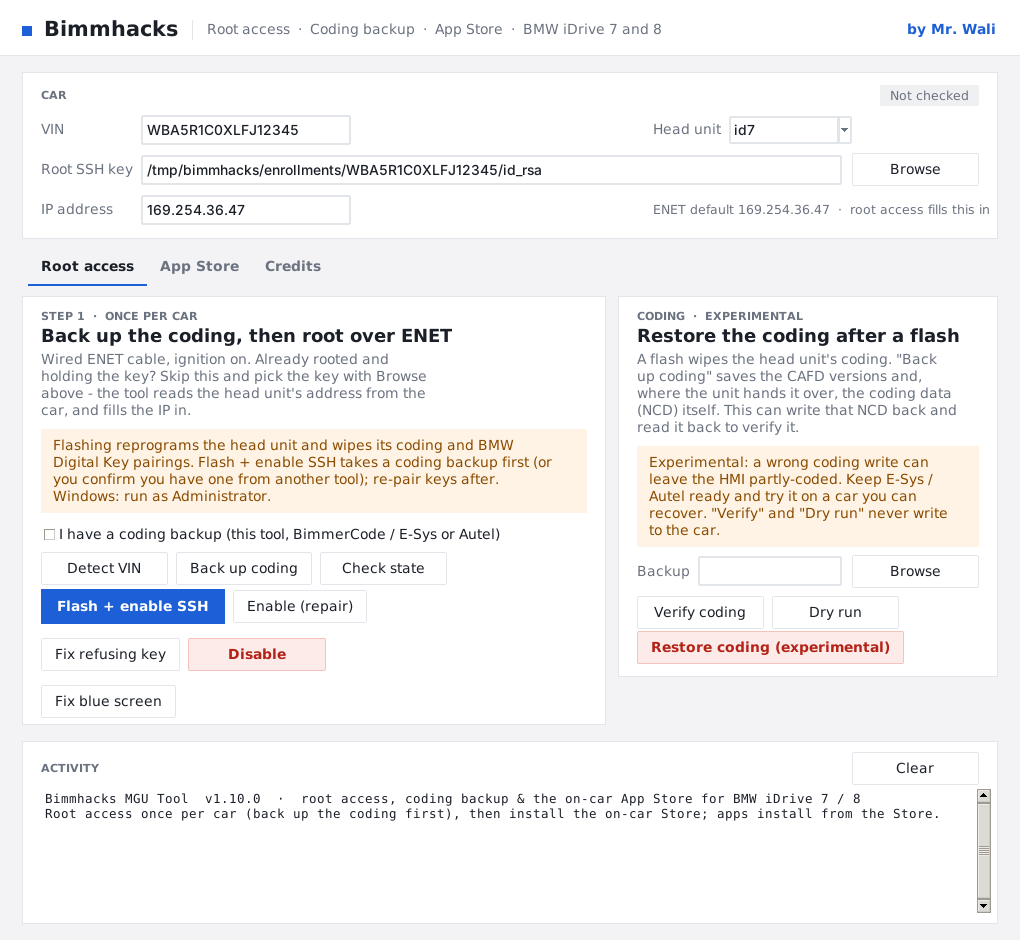
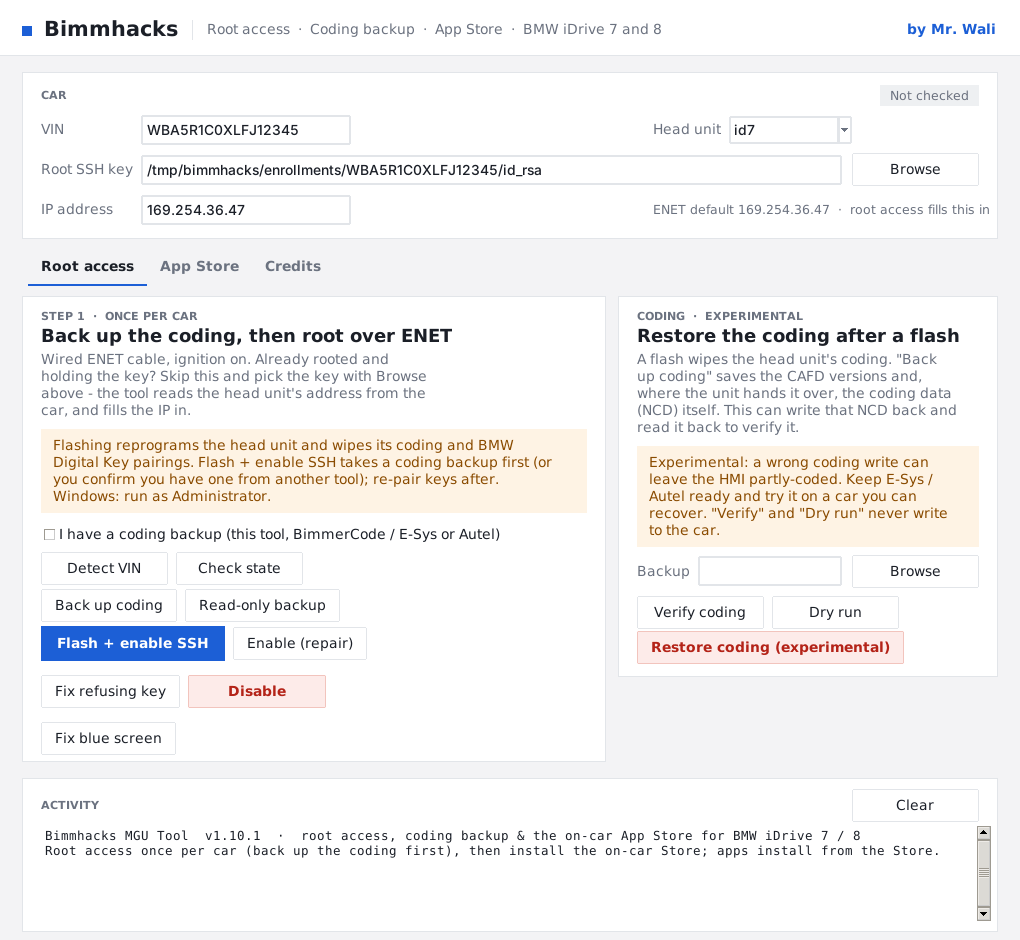
Make the two coding backups independent (v1.10.1)
Per request: keep both backups, but fully separate - and keep our NCD backup /
restore exactly as it was in the program.

- Our NCD backup is standalone again: "Back up coding" writes only the NCD backup
  (coding_backup.collect/write unchanged from before the re-sync), and the
  experimental restore card is untouched.
- The root tool's read-only preflight backup is now its own independent operation:
  a new "Read-only backup" button and a `preflight-coding` CLI action, backed by a
  separate `coding_backup.py preflight` command (`preflight_backup()`). It writes
  only the read-only coding record (coding_MGU.txt + RESTORE.txt); it never writes
  to the car. The two no longer run together.

Tests cover each path independently; all installer suites + the vendored
test_preflight pass. README / CLIENT-GUIDE / UPSTREAM and the screenshot updated.

Claude-Session: https://claude.ai/code/session_016L48f87dYbWshY4bmcePZY

Changed region(s): [[0.0304, 0.5862, 0.9118, 0.9255], [0.9422, 0.833, 0.9725, 0.8947], [0.9422, 0.9564, 0.9725, 0.9872]]

diff --git a/installer/coding_backup.py b/installer/coding_backup.py
@@ -155,11 +155,9 @@ def _open_client(gateway, mgu_ip, vin, log):
     return client, gw, found_vin
 
 
-def collect(gateway='auto', mgu_ip=None, arch='id7', vin=None, log=print, read_ncd=True, preflight_out=None):
+def collect(gateway='auto', mgu_ip=None, arch='id7', vin=None, log=print, read_ncd=True):
     """Read the backup from the car. -> dict. Raises on a link that cannot be reached. The NCD read is
-    best-effort: if the unit does not hand it over, the snapshot is still complete. When preflight_out is
-    set, also take the root tool's read-only coding-store backup (0x3000-0x3FFF + identification, with its
-    RESTORE.txt) into that folder over the same connection."""
+    best-effort: if the unit does not hand it over, the snapshot is still complete."""
     from mgu7 import diag, hsfz
     client, gw, found_vin = _open_client(gateway, mgu_ip, vin, log)
     snap = {'tool': 'bimmhacks coding backup', 'schema': SCHEMA, 'taken': _now(),
@@ -210,24 +208,6 @@ def collect(gateway='auto', mgu_ip=None, arch='id7', vin=None, log=print, read_n
                 log('  This unit did not hand coding data over the default way - the snapshot is complete,')
                 log('  but there is no restorable NCD. Keep using E-Sys / Autel for the restore, or capture')
                 log('  your tool\'s coding session with pid_capture.py so we can set the protocol.')
-
-        if preflight_out:
-            # the root tool's own read-only coding backup (cauliflowermossgrape/idrive7-8-ssh-root,
-            # mgu7/preflight.py): the coding store 0x3000-0x3FFF + identification, read twice and
-            # compared, with a RESTORE.txt that points to VO / code-by-FA re-coding (issue #10).
-            try:
-                from mgu7 import preflight as _pf
-                log('Taking the read-only coding backup (coding store 0x3000-0x3FFF + identification) ...')
-                pf = _pf.backup(client, svk, preflight_out, vin=found_vin, log=log)
-                snap['preflight'] = {'folder': os.path.basename(pf.get('folder', '')),
-                                     'verified': bool(pf.get('verified')),
-                                     'coding_blocks': len(pf.get('coding') or {})}
-                log('  read-only coding backup: %s (%d coding block(s), %s)' % (
-                    snap['preflight']['folder'], snap['preflight']['coding_blocks'],
-                    'read twice and verified' if snap['preflight']['verified'] else 'NOT verified - do not rely on it alone'))
-            except Exception as e:
-                log('  (read-only coding backup skipped: %s)' % e)
-                snap['preflight'] = {'error': str(e)}
     finally:
         try:
             client.close()
@@ -296,6 +276,35 @@ def write(snap, out_dir, log=print):
 
 
 # ============================================================ verify + restore (experimental)
+def preflight_backup(gateway='auto', mgu_ip=None, vin=None, out=None, log=print):
+    """The root tool's READ-ONLY coding backup, standalone and independent of the NCD backup above.
+
+    Reuses cauliflowermossgrape/idrive7-8-ssh-root's mgu7/preflight.py over our own ENET connection:
+    it scans the coding store (DID 0x3000-0x3FFF) and identification, reads them twice and verifies,
+    and writes coding_MGU.txt + a RESTORE.txt (VO / code-by-FA re-coding). It never writes to the car.
+    -> the preflight result dict (its 'folder' and 'verified')."""
+    from mgu7 import diag, preflight
+    out = out or '.'
+    os.makedirs(out, exist_ok=True)
+    client, gw, found_vin = _open_client(gateway, mgu_ip, vin, log)
+    try:
+        log('Reading software versions (SVK) ...')
+        svk = diag.read_svk(client)
+        log('Taking the read-only coding backup (coding store 0x3000-0x3FFF + identification) ...')
+        result = preflight.backup(client, svk, out, vin=found_vin, log=log)
+        log('Read-only coding backup written to: ' + result.get('folder', out))
+        if not result.get('verified'):
+            log('WARNING: the coding read is incomplete or did not verify - do not rely on it as your only backup.')
+        else:
+            log('After a flash, re-code HU_MGU by vehicle order (E-Sys / BimmerCode); see RESTORE.txt in the folder.')
+        return result
+    finally:
+        try:
+            client.close()
+        except OSError:
+            pass
+
+
 def load_backup(path):
     with open(path, encoding='utf-8') as f:
         snap = json.load(f)
@@ -420,7 +429,7 @@ def verify(backup, gateway='auto', mgu_ip=None, log=print):
 # ============================================================ CLI
 def main(argv=None):
     ap = argparse.ArgumentParser(description='Bimmhacks MGU coding backup / restore (experimental).')
-    ap.add_argument('action', nargs='?', default='backup', choices=['backup', 'restore', 'verify'])
+    ap.add_argument('action', nargs='?', default='backup', choices=['backup', 'restore', 'verify', 'preflight'])
     ap.add_argument('--out', help='backup: folder to write the backup into')
     ap.add_argument('--backup', help='restore / verify: the backup .json to use')
     ap.add_argument('--gateway', default='auto')
@@ -428,8 +437,6 @@ def main(argv=None):
     ap.add_argument('--arch', default='id7')
     ap.add_argument('--vin', default=None)
     ap.add_argument('--no-ncd', action='store_true', help='backup: snapshot only, do not read the coding data')
-    ap.add_argument('--no-preflight', action='store_true',
-                    help='backup: skip the root tool\'s read-only coding-store backup (0x3000-0x3FFF + RESTORE.txt)')
     ap.add_argument('--dry-run', action='store_true', help='restore: show what would be written, write nothing')
     ap.add_argument('--confirm-restore', action='store_true',
                     help='restore: I accept this is experimental and can leave the HMI partly-coded, and I have '
@@ -442,10 +449,14 @@ def main(argv=None):
         if a.action == 'backup':
             if not a.out:
                 ap.error('--out is needed for a backup')
-            snap = collect(gateway=a.gateway, mgu_ip=a.mgu_ip, arch=a.arch, vin=a.vin, log=log,
-                           read_ncd=not a.no_ncd, preflight_out=None if a.no_preflight else a.out)
+            snap = collect(gateway=a.gateway, mgu_ip=a.mgu_ip, arch=a.arch, vin=a.vin, log=log, read_ncd=not a.no_ncd)
             write(snap, a.out, log=log)
             return 0
+        if a.action == 'preflight':
+            if not a.out:
+                ap.error('--out is needed for the read-only preflight backup')
+            r = preflight_backup(gateway=a.gateway, mgu_ip=a.mgu_ip, vin=a.vin, out=a.out, log=log)
+            return 0 if r.get('verified') else 1
         if not a.backup:
             ap.error('--backup <file.json> is needed')
         bk = load_backup(a.backup)

diff --git a/installer/bimmhacks_installer.py b/installer/bimmhacks_installer.py
@@ -31,7 +31,7 @@ it. Stage C (App Store) needs internet at the car (or a prepared USB stick).
 """
 import argparse, json, os, queue, re, shutil, stat, subprocess, sys, tempfile, threading, time
 
-VERSION = '1.10.0'
+VERSION = '1.10.1'
 HERE = os.path.dirname(os.path.abspath(__file__))
 REPO = os.path.dirname(HERE)
 DEFAULT_IP = '169.254.36.47'                # the unit's address with the idrive7-8-ssh-root tool
@@ -442,6 +442,23 @@ def do_backup_coding(log, vin=None, ip=None, gateway='auto', arch='id7', out_dir
     saved = next((l.strip() for l in lines if l.strip().endswith('.txt')), None)
     log('Coding backup saved in: ' + out_dir)
     return saved or out_dir
+
+
+def do_preflight_backup(log, vin=None, ip=None, gateway='auto', arch='id7', out_dir=None):
+    """The root tool's READ-ONLY coding backup - a separate, independent option from "Back up coding".
+    Scans the coding store over ENET, reads it twice and verifies, and writes coding_MGU.txt + RESTORE.txt
+    (VO / code-by-FA re-coding). It never writes to the car. -> the folder it wrote into."""
+    out_dir = out_dir or CODING_BACKUP_DIR
+    log('Reading the head unit over ENET for the read-only coding backup ...')
+    args = ['preflight', '--out', out_dir]
+    if vin:
+        args += ['--vin', vin]
+    code, lines = _run_coding(args, log, gateway=gateway, ip=ip, arch=arch)
+    if code:
+        log('The read-only coding backup did not fully verify - keep a BimmerCode / E-Sys / Autel backup too.')
+    folder = next((l.split(': ', 1)[1].strip() for l in lines if l.startswith('Read-only coding backup written to')), None)
+    log('Read-only coding backup saved in: ' + (folder or out_dir))
+    return folder or out_dir
 
 
 def latest_coding_backup(out_dir=None, vin=None):
@@ -1133,6 +1150,14 @@ def run_gui():
             log('Backup done. Keep it safe; also keep your BimmerCode / E-Sys / Autel backup.')
         start(w, 'Coding backup saved - see the activity log.')
 
+    def on_preflight():
+        vin, _, _, arch = conn_values()
+        def w():
+            do_preflight_backup(log, vin=vin or None, arch=arch)
+            ui_set(backup_done, True)
+            log('Read-only coding backup done. It never writes to the car; restore with E-Sys (code by FA).')
+        start(w, 'Read-only coding backup saved - see the activity log.')
+
     def on_detect_vin():
         _, _, _, arch = conn_values()
         def w():
@@ -1192,8 +1217,10 @@ def run_gui():
 
     rr1 = row(c1, pady=(6, 4))
     button(rr1, 'Detect VIN', on_detect_vin)
-    button(rr1, 'Back up coding', on_backup)
     button(rr1, 'Check state', lambda: on_root('status'))
+    rrb = row(c1, pady=(0, 4))
+    button(rrb, 'Back up coding', on_backup)
+    button(rrb, 'Read-only backup', on_preflight)
     rr2 = row(c1, pady=(0, 14))
     button(rr2, 'Flash + enable SSH', lambda: on_root('flash',
            'Flash the debug image and enable root SSH?\n\nThis REPROGRAMS the head unit and WIPES its coding '
@@ -1464,7 +1491,7 @@ def main(argv=None):
                     choices=['gui',
                              'root-status', 'root-flash', 'root-enable', 'root-fix-key', 'root-disable',
                              'root-enter-prog', 'root-exit-prog',
-                             'detect-vin', 'backup-coding', 'verify-coding', 'restore-coding',
+                             'detect-vin', 'backup-coding', 'preflight-coding', 'verify-coding', 'restore-coding',
                              'test', 'store-install', 'restart-head-unit',
                              'install-ridetube', 'install-idrive-apps', 'install-car-apps', 'install-our-apps',
                              'usb-repo', 'pid-capture'])
@@ -1513,6 +1540,9 @@ def main(argv=None):
             return
         if a.action == 'backup-coding':
             do_backup_coding(log, vin=a.vin, ip=a.ip, gateway=a.gateway, arch=a.arch, out_dir=a.out, no_ncd=a.no_ncd)
+            return
+        if a.action == 'preflight-coding':
+            do_preflight_backup(log, vin=a.vin, ip=a.ip, gateway=a.gateway, arch=a.arch, out_dir=a.out)
             return
         if a.action == 'verify-coding':
             bk = a.backup or latest_coding_backup(a.out, a.vin)

diff --git a/installer/tests/test_coding_backup.py b/installer/tests/test_coding_backup.py
@@ -103,15 +103,13 @@ class CodingSnapshot(unittest.TestCase):
         self.assertIn('DID capture the coding data', text)
 
     def test_preflight_read_only_coding_backup_is_taken(self):
-        # with preflight_out set, the backup also takes the root tool's read-only coding-store backup
-        # (coding 0x3000-0x3FFF + identification, read twice and verified) with its RESTORE.txt
+        # the read-only preflight backup is a SEPARATE, independent operation from the NCD backup: the
+        # root tool's coding-store scan (0x3000-0x3FFF + identification, read twice and verified) + RESTORE.txt
         with FakeCar(vin=VIN):
-            snap = coding_backup.collect(gateway='127.0.0.1', vin=VIN, log=quiet, preflight_out=self.out)
-        pf = snap.get('preflight')
-        self.assertIsNotNone(pf)
+            pf = coding_backup.preflight_backup(gateway='127.0.0.1', vin=VIN, out=self.out, log=quiet)
         self.assertTrue(pf['verified'], 'the coding read twice and matched')
-        self.assertEqual(pf['coding_blocks'], len(FakeCar.CODING_STORE))
-        folder = os.path.join(self.out, pf['folder'])
+        self.assertEqual(len(pf['coding']), len(FakeCar.CODING_STORE))
+        folder = pf['folder']
         for name in ('RESTORE.txt', 'coding_MGU.txt', 'backup.json', 'SHA256SUMS'):
             self.assertTrue(os.path.isfile(os.path.join(folder, name)), name + ' written')
         with open(os.path.join(folder, 'RESTORE.txt')) as f:

diff --git a/README.md b/README.md
@@ -12,13 +12,16 @@ from the car's own screen.
   **Flash + enable SSH forces a coding backup first**: it offers to take one now, and if you skip it you
   must confirm, in a warning, that you already have a backup from another tool. A unit stuck on the blue
   programming screen is recovered with **Fix blue screen** (the root tool's `exit-prog`, no flash).
-- **Coding backup & restore** — **Back up coding** reads the unit over ENET into `coding-backups/` and,
-  in one pass, writes two records: the root tool's **read-only coding backup** (the coding store
-  0x3000-0x3FFF + identification, read twice and verified, with a `RESTORE.txt` that steers restore to
-  VO / code-by-FA re-coding — the reliable path), and, where the unit hands it over, the per-CAFD coding
-  data (NCD) as E-Sys-compatible `.ncd` files for the **experimental restore** card (Verify / Dry run /
-  Restore, gated, read-back verified). Keep BimmerCode / E-Sys / Autel ready: a wrong coding write can
-  leave the HMI partly-coded, and VO re-coding is the dependable restore.
+- **Coding backup** — two independent backups, your choice:
+  - **Back up coding** — our NCD backup: reads the CAFD coding versions, VIN, faults and, where the unit
+    hands it over, the per-CAFD coding data (NCD) as E-Sys-compatible `.ncd` files. These feed the
+    **experimental restore** card (Verify / Dry run / Restore, gated, read-back verified) that can write
+    the coding back.
+  - **Read-only backup** — the root tool's read-only coding backup: scans the coding store
+    (0x3000-0x3FFF) + identification, reads twice and verifies, and writes `coding_MGU.txt` +
+    a `RESTORE.txt` that steers restore to VO / code-by-FA re-coding. It never writes to the car.
+  - Keep BimmerCode / E-Sys / Autel ready: a wrong coding write can leave the HMI partly-coded, and VO
+    re-coding is the dependable restore.
 - **App Store** — install the on-car [mgu-store](https://github.com/robertnisipeanu/mgu-store) (its
   renderer and internet uplink), restart the head unit so it comes up, and add **RideTube** (and your
   own GitHub repo) to the Store's sources in one click. From there the client browses, installs and
@@ -63,17 +66,21 @@ same window in Segoe UI with its native dialogs. Regenerate it with `installer/t
 
 ## Backing up the coding
 
-Before any flash, **Back up coding** reads the car over ENET into `coding-backups/`, in one pass:
-- the root tool's **read-only coding backup** — the coding store (DID 0x3000-0x3FFF) and identification,
-  read twice and compared, written as `coding_MGU.txt` with a `RESTORE.txt` that steers restore to
-  **VO / code-by-FA re-coding** in E-Sys or BimmerCode (the dependable path — a whole-blob write-back can
-  leave settings resetting, upstream issue #10);
-- the CAFD coding versions, VIN, IP and faults (*what to restore*); and
-- where the unit hands it over, the per-CAFD coding data (NCD) as E-Sys-compatible `.ncd` files
-  (*the coding to write back* for the experimental restore).
+There are two independent coding backups in `coding-backups/`, and you can take either or both:
 
-**Flashing forces this backup**: *Flash + enable SSH* offers to take it now, and if you skip it you must
-acknowledge a warning that you already have a backup from BimmerCode / E-Sys / Autel.
+- **Back up coding** (our NCD backup) — the CAFD coding versions, VIN, IP and faults, and where the unit
+  hands it over, the per-CAFD coding data (NCD) as E-Sys-compatible `.ncd` files. This is *the coding to
+  write back* for the experimental restore card, which stays exactly as it was: write back the NCD it
+  read, gated on a CAFD-versions-and-VIN match, a typed confirmation, with Verify / Dry run (never write)
+  and a read-back check.
+- **Read-only backup** (the root tool's preflight) — scans the coding store (DID 0x3000-0x3FFF) and
+  identification, reads twice and compares, and writes `coding_MGU.txt` with a `RESTORE.txt` that steers
+  restore to **VO / code-by-FA re-coding** in E-Sys or BimmerCode (the dependable path — a whole-blob
+  write-back can leave settings resetting, upstream issue #10). It never writes to the car.
+
+**Flashing forces a backup**: *Flash + enable SSH* offers to take the NCD backup now, and if you skip it
+you must acknowledge a warning that you already have a backup from BimmerCode / E-Sys / Autel. A wrong
+coding write can leave the HMI partly-coded, so keep E-Sys / Autel ready as the fallback.
 
 The **restore** is experimental and safe-by-construction: it only ever writes back the exact NCD it
 read, only to the coding identifiers it read, gates on a CAFD-versions-and-VIN match, requires a typed
@@ -119,7 +126,8 @@ PC zip with [CLIENT-GUIDE.md](CLIENT-GUIDE.md); the client unzips it and double-
 ## Command line
 
 ```sh
-python3 installer/bimmhacks_installer.py backup-coding --out coding-backups        # snapshot + NCD backup
+python3 installer/bimmhacks_installer.py backup-coding --out coding-backups        # our NCD backup
+python3 installer/bimmhacks_installer.py preflight-coding --out coding-backups     # the root tool's read-only coding backup
 python3 installer/bimmhacks_installer.py verify-coding --backup <backup.json>      # read-only: does the car match?
 python3 installer/bimmhacks_installer.py restore-coding --backup <backup.json> --dry-run   # show, write nothing
 python3 installer/bimmhacks_installer.py restore-coding --backup <backup.json> --confirm-restore  # EXPERIMENTAL write-back

diff --git a/CLIENT-GUIDE.md b/CLIENT-GUIDE.md
@@ -41,15 +41,17 @@ with *Browse* (the IP address is filled in from the key's `connect.txt`).
 > ⚠ **Flashing reprograms the head unit and wipes its coding and BMW Digital Key pairings.**
 > Back up the coding first, and plan to re-pair digital keys. This is a one-time step; do not repeat it.
 
-**Back up the coding first.** Click **Back up coding**. In one pass over ENET it saves, under
-`coding-backups/`:
+**Back up the coding first.** There are two independent backups under `coding-backups/` — take either or
+both:
 
-- a **read-only coding backup** — the unit's coding store and identification, read twice and verified,
-  written as `coding_MGU.txt` with a `RESTORE.txt` that tells you how to put the coding back after a
-  flash (re-code HU_MGU **by vehicle order / "code by FA"** in E-Sys or BimmerCode — the reliable way);
-- which **CAFD coding versions**, VIN, IP and faults are on the car; and
-- where the unit hands it over, the **coding data (NCD)** as E-Sys-compatible `.ncd` files, for the
-  experimental restore. (Some units do not expose the NCD; the backup still succeeds.)
+- **Back up coding** — saves which **CAFD coding versions**, VIN, IP and faults are on the car, and where
+  the unit hands it over, the **coding data (NCD)** as E-Sys-compatible `.ncd` files. This is the copy the
+  experimental **restore** card can write back. (Some units do not expose the NCD; the backup still
+  succeeds.)
+- **Read-only backup** — the root tool's read-only coding backup: it reads the unit's coding store and
+  identification twice, verifies them, and writes `coding_MGU.txt` with a `RESTORE.txt` that tells you how
+  to put the coding back after a flash (re-code HU_MGU **by vehicle order / "code by FA"** in E-Sys or
+  BimmerCode — the reliable way). It never writes to the car.
 
 Having BimmerCode / E-Sys / Autel as a fallback is strongly advised.
 

diff --git a/UPSTREAM.md b/UPSTREAM.md
@@ -32,9 +32,10 @@ This project bundles three upstream repositories, each copied unchanged except w
   writes to `data/enrollments/<VIN>/` are never committed or shipped.
 - The installer calls its `ssh_enable.py` as a subprocess; it needs the `cryptography` Python
   package, which the installer installs on demand (`pip install --user cryptography`).
-- `installer/coding_backup.py` reuses `mgu7.preflight.backup` over its own ENET connection, so one
-  "Back up coding" produces both our NCD files and the root tool's read-only coding record. The
-  vendored `tools/idrive7-8-ssh-root/tests/test_preflight.py` validates preflight directly in CI.
+- `installer/coding_backup.py` keeps our NCD backup / restore exactly as it was, and adds a **separate,
+  independent** `preflight` command (`preflight_backup()`, reusing `mgu7.preflight.backup`). The two are
+  not coupled: "Back up coding" writes only the NCD backup, "Read-only backup" writes only the preflight
+  record. The vendored `tools/idrive7-8-ssh-root/tests/test_preflight.py` validates preflight in CI.
 
 ## 3. `tools/mgu-store/` — the on-car App Store
 
